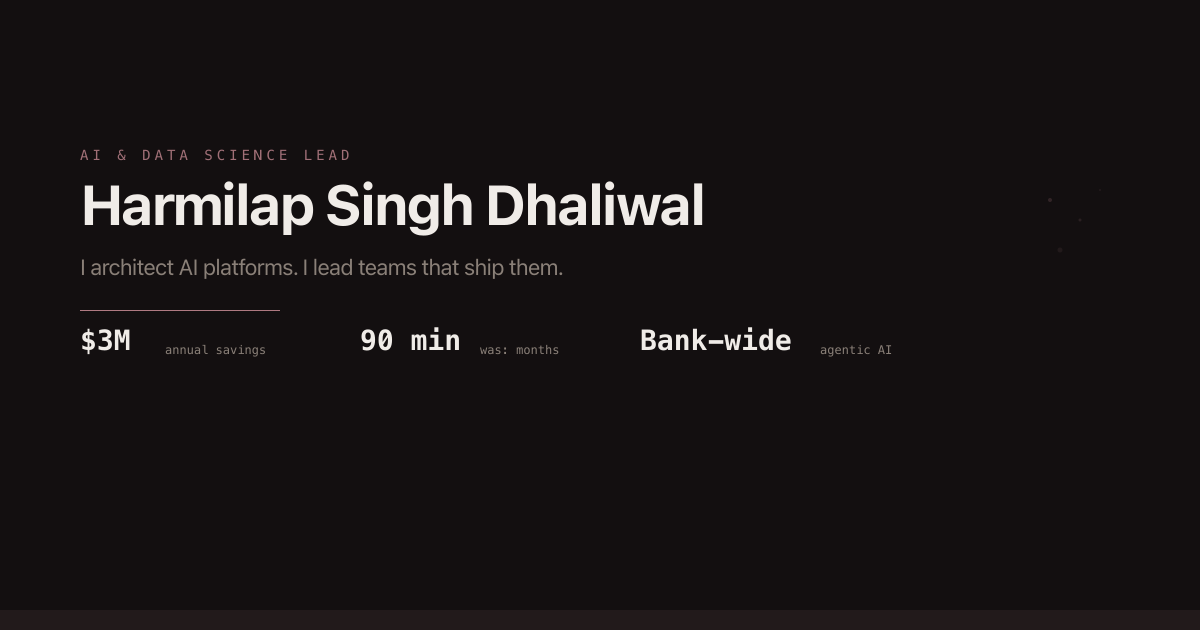
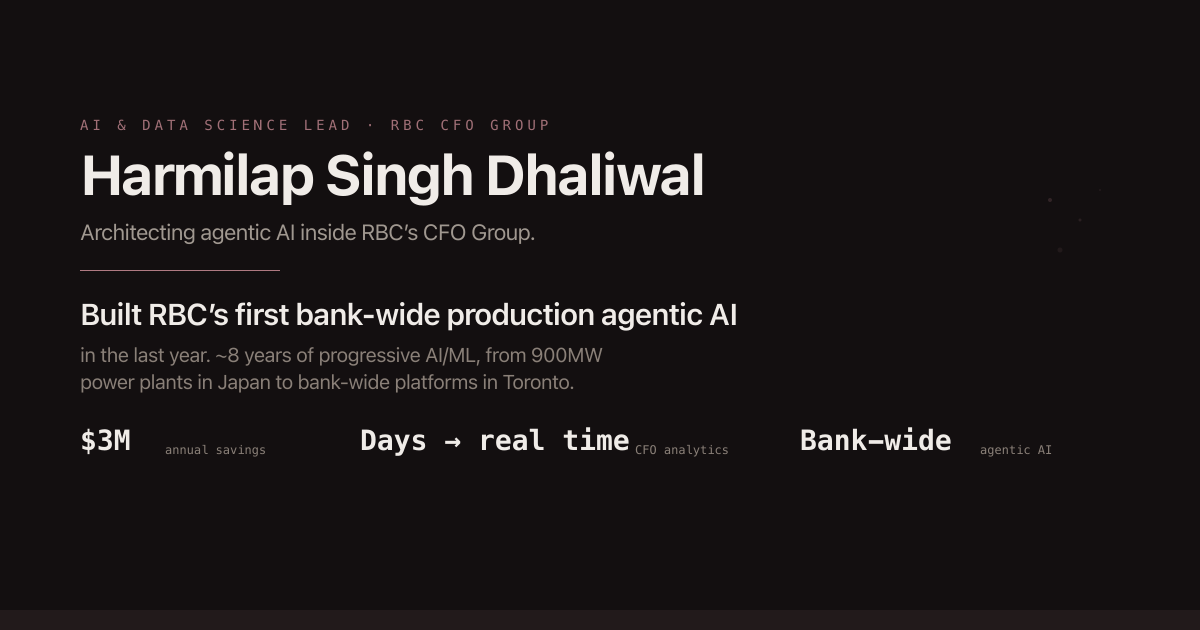
fix(og): refresh OG card content to current hero framing

diff --git a/app/layout.tsx b/app/layout.tsx
@@ -44,11 +44,11 @@ export const metadata: Metadata = {
     template: '%s | Harmilap Singh Dhaliwal',
   },
   description:
-    'From building industrial Digital Twins that saved $3M to architecting enterprise agentic AI platforms — with the technical depth to design systems and the leadership range to ship them.',
+    "Built RBC's first bank-wide production agentic AI in the last year, alongside a multi-stage LLM analytics platform shipped to production. ~8 years of progressive AI/ML, from industrial Digital Twins to bank-wide LLM platforms.",
   openGraph: {
     title: 'Harmilap Singh Dhaliwal — AI & Data Science Lead',
     description:
-      'From Digital Twins to deterministic agents — shipping AI at bank scale.',
+      "Built RBC's first bank-wide production agentic AI in the last year. ~8 years of progressive AI/ML, from industrial Digital Twins to bank-wide LLM platforms.",
     url: SITE_URL,
     siteName: 'Harmilap Singh Dhaliwal',
     locale: 'en_US',
@@ -66,7 +66,7 @@ export const metadata: Metadata = {
     card: 'summary_large_image',
     title: 'Harmilap Singh Dhaliwal — AI & Data Science Lead',
     description:
-      'From Digital Twins to deterministic agents — shipping AI at bank scale.',
+      "Built RBC's first bank-wide production agentic AI in the last year. ~8 years of progressive AI/ML, from industrial Digital Twins to bank-wide LLM platforms.",
     images: ['/og-image.png'],
   },
   robots: {
